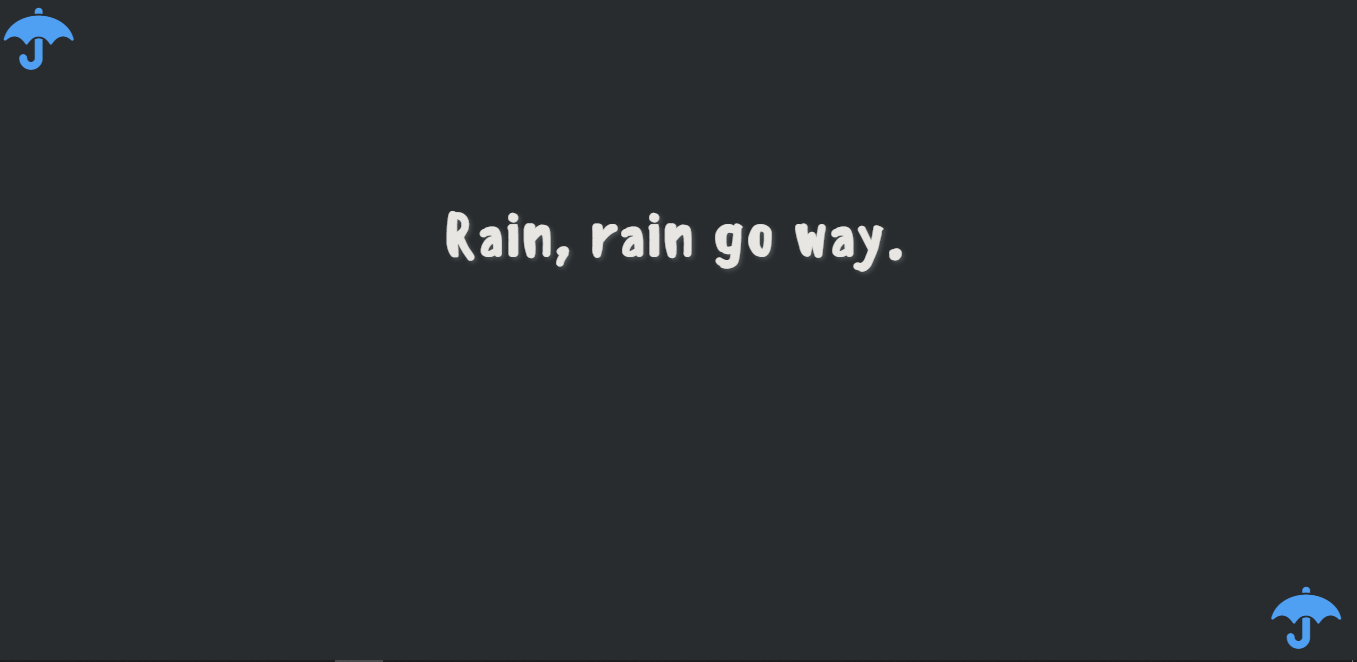
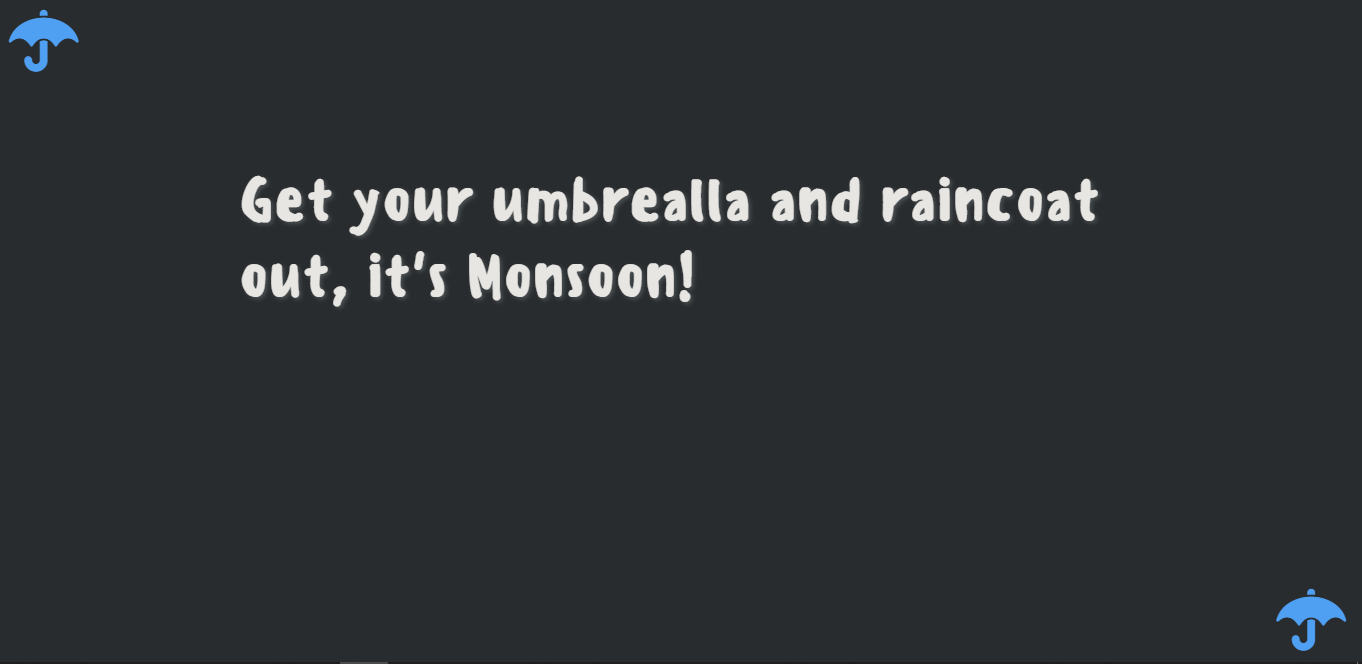
Seasons app

Changed region(s): [[0.1548, 0.2719, 0.8047, 0.4532], [0.0, 0.0, 0.0619, 0.1208]]

diff --git a/src/SeasonDisplay.js b/src/SeasonDisplay.js
@@ -7,7 +7,7 @@ const SeasonDisplay = (props) => {
         if (month === 1 || month === 2) {
             return 'Spring';
         }
-        else if (month >=3 && month <= 5) return 'TIme for each and ice cream';
+        else if (month >=3 && month <= 5) return 'Summer';
         else if (month === 6 || month === 7) return 'Monsoon';
         else if (month === 8 || month === 9) return 'Autum';
         else if (month === 10 || month === 11 || month === 0) return 'Winter';
@@ -24,7 +24,7 @@ const SeasonDisplay = (props) => {
             iconName: 'sun'
         },
         Monsoon : {
-            text: "Rain, rain go way.",
+            text: "Get your umbrealla and raincoat out, it's Monsoon!",
             iconName: 'umbrella'
         },
         Autumn : {
@@ -44,7 +44,7 @@ const SeasonDisplay = (props) => {
         <div>
             <div className={`season-display ${season}`}>
                 <i className={`icon-left huge ${iconName} icon`} />
-                <h1>{text}</h1>
+                <h1 style = {{ width : "800px"; textAlign: "justify"}}>{text}</h1>
                 <i className={`icon-right huge ${iconName} icon`} />
             </div>
         </div>
